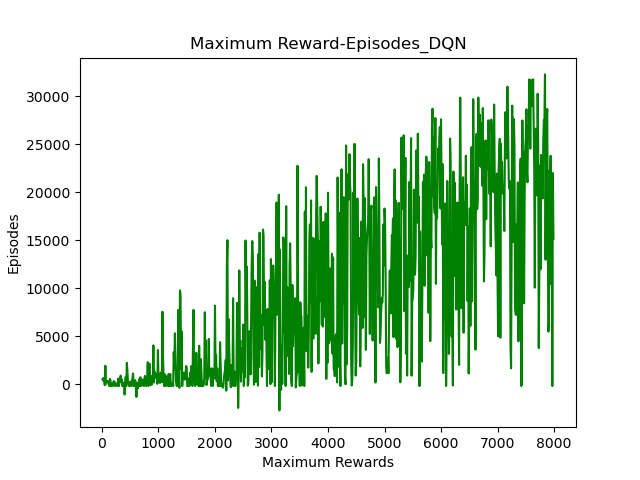
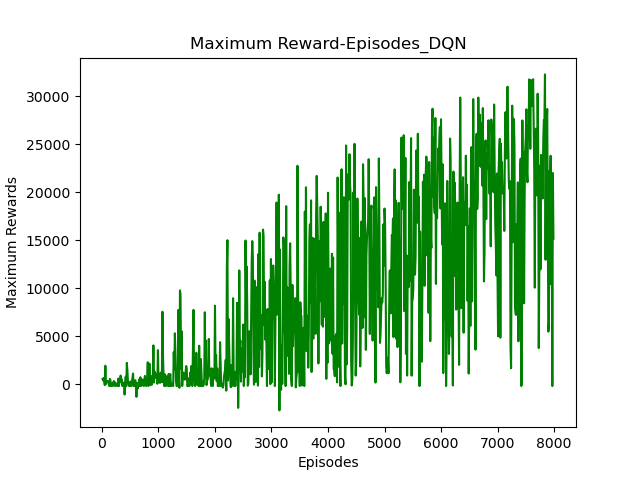
Add files via upload

Changed region(s): [[0.4062, 0.9375, 0.625, 1.0], [0.0, 0.375, 0.0312, 0.6562]]

diff --git a/DQN-CARLA-master/src/Diagrams_DQN.py b/DQN-CARLA-master/src/Diagrams_DQN.py
@@ -83,38 +83,38 @@ y8 = np.array(rolling_mean_dist)
 plt.plot(x1, y1, color="green")
 plt.plot(x1, y7, color="blue")
 plt.title("Reward-Episodes_DQN")
-plt.xlabel("Rewards")
-plt.ylabel("Episodes")
+plt.xlabel("Episodes")
+plt.ylabel("Rewards")
 plt.savefig('Reward-Episodes_8000_DQN.png')
 plt.close()
 plt.plot(x2, y2, color="green")
 plt.title("Minimum Reward-Episodes_DQN")
-plt.xlabel("Minimum Reward")
-plt.ylabel("Episodes")
+plt.xlabel("Episodes")
+plt.ylabel("Minimum Reward")
 plt.savefig('Minimum Reward-Episodes_8000_DQN.png')
 plt.close()
 plt.plot(x2, y3, color="green")
 plt.title("Maximum Reward-Episodes_DQN")
-plt.xlabel("Maximum Rewards")
-plt.ylabel("Episodes")
+plt.xlabel("Episodes")
+plt.ylabel("Maximum Rewards")
 plt.savefig('Maximum Reward-Episodes_8000_DQN.png')
 plt.close()
 plt.plot(x2, y4, color="green")
 plt.title("Average Distance-Episodes_DQN")
-plt.xlabel("Average Distance(m)")
-plt.ylabel("Episodes")
+plt.xlabel("Episodes")
+plt.ylabel("Average Distance(m)")
 plt.savefig('Average Distance-Episodes_8000_DQN.png')
 plt.close()
 plt.plot(x2, y5, color="green")
 plt.title("Average Reward-Episodes_DQN")
-plt.xlabel("Average Rewards")
-plt.ylabel("Episodes")
+plt.xlabel("Episodes")
+plt.ylabel("Average Rewards")
 plt.savefig('Average Reward-Episodes_8000_DQN.png')
 plt.close()
-plt.plot(x1, y6, color="red")
+plt.plot(x1, y6, color="green")
 plt.plot(x1, y8, color="blue")
 plt.title("Distance-Episodes_DQN")
-plt.xlabel("Distance(m)")
-plt.ylabel("Episodes")
+plt.xlabel("Episodes")
+plt.ylabel("Distance(m)")
 plt.savefig('Distance-Episodes_8000_DQN.png')
 plt.close()
